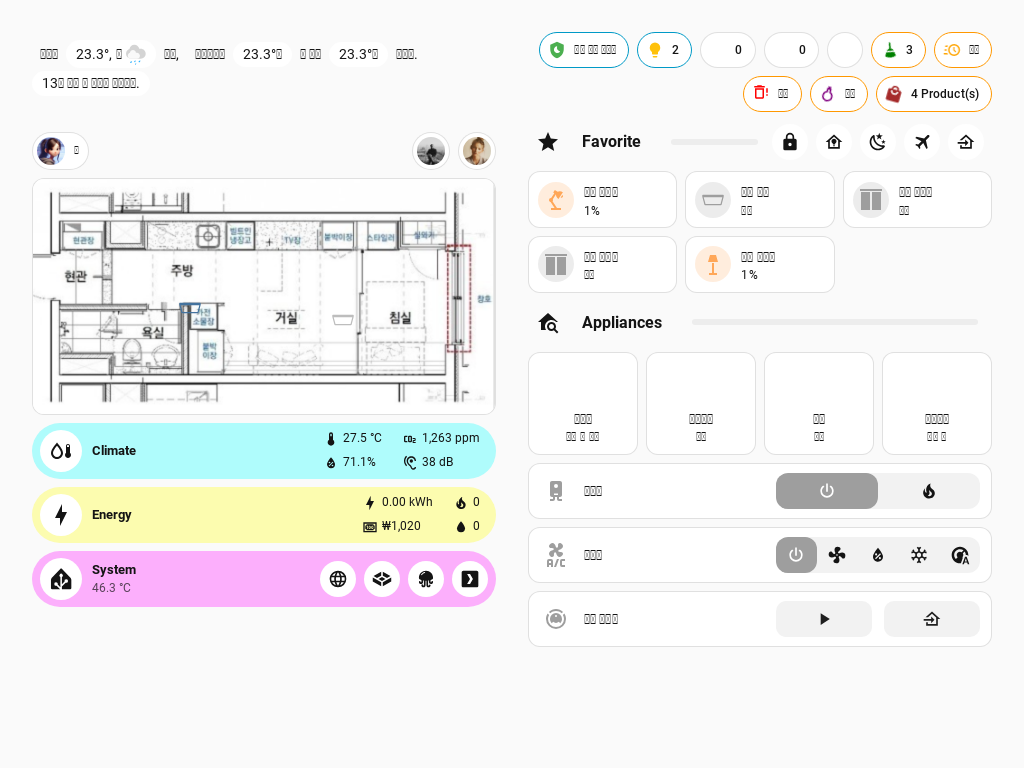
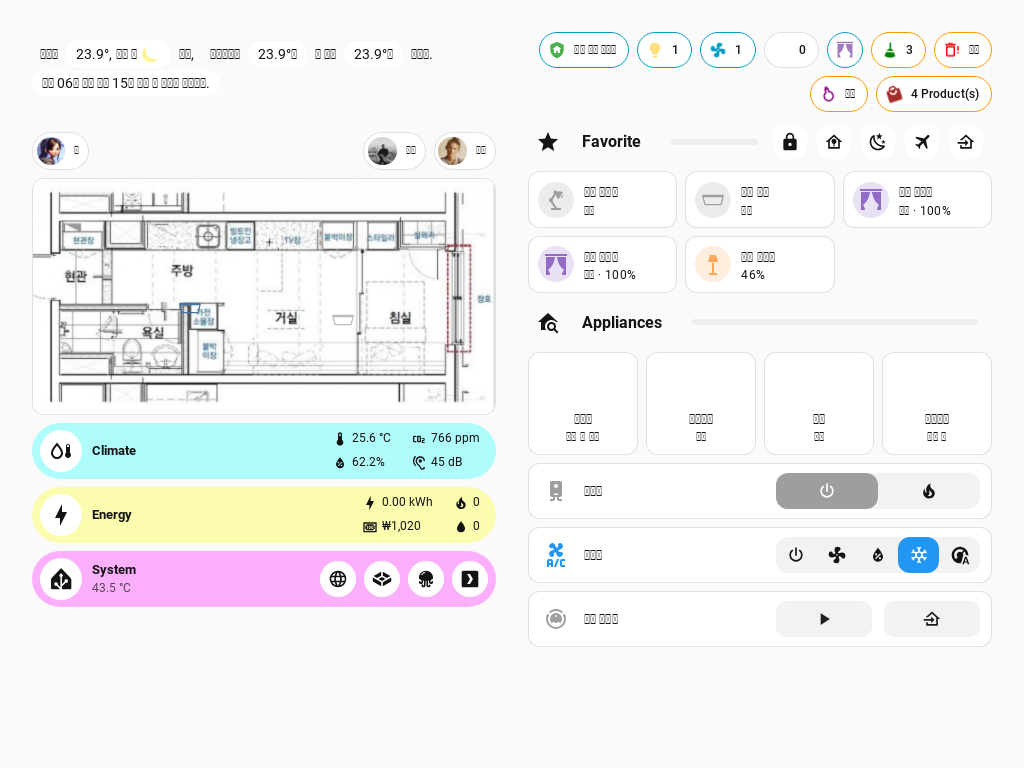
fix: Move http integration settings to secrets

diff --git a/README.md b/README.md
@@ -13,7 +13,7 @@
 
 This is my Home Assistant configuration, updated on 2025-08-14.
 
-I started using Home Assistant in 2018. Now, it has grown significantly, with a total of 1535 entities for now.
+I started using Home Assistant in 2018. Now, it has grown significantly, with a total of 1537 entities for now.
 
 > [!CAUTION]
 > I constantly improve my home. It evolves as I add new devices and services. It's changing as my daily routines are changing.
@@ -48,11 +48,11 @@ binary_sensors | 152
 device_trackers | 14
 lights | 18
 media_players | 9
-sensors | 827
-switches | 152
-switches | 152
-others | 333
-**Total** | **1535**
+sensors | 836
+switches | 148
+switches | 148
+others | 330
+**Total** | **1537**
 
 ## Integrations
 
@@ -199,7 +199,7 @@ Name | Version | Description
 [Mailfilter](/hassio/addon/32b8266a_mailfilter) | 4.2.2 | 
 [Mailserver](/hassio/addon/32b8266a_mailserver) | 4.3.0 | 
 [MariaDB](/hassio/addon/core_mariadb) | 2.7.2 | 
-[Matter Server](/hassio/addon/core_matter_server) | 8.0.0 | 
+[Matter Server](/hassio/addon/core_matter_server) | 8.1.0 | 
 [MCP Proxy Server](/hassio/addon/adfd7a46_mcp_proxy_server) | 0.4.1 | 
 [Mosquitto broker](/hassio/addon/core_mosquitto) | 6.5.1 | 
 [MQTT Explorer](/hassio/addon/2ad4c73a_mqtt-explorer) | browser-1.0.1 | 
@@ -330,7 +330,7 @@ Generated by the [custom readme integration](https://github.com/custom-component
 [home-assistant]: https://home-assistant.io
 
 [saya6k]: https://lyz.kr
-[docs-url]: https://docs.lyz.kr
+[docs-url]: https://docs.lyz.kr/index.html
 
 [maintenance-shield]: https://img.shields.io/maintenance/yes/2025.svg
 [contributors]: https://github.com/saya6k/home-assistant-config/graphs/contributors
